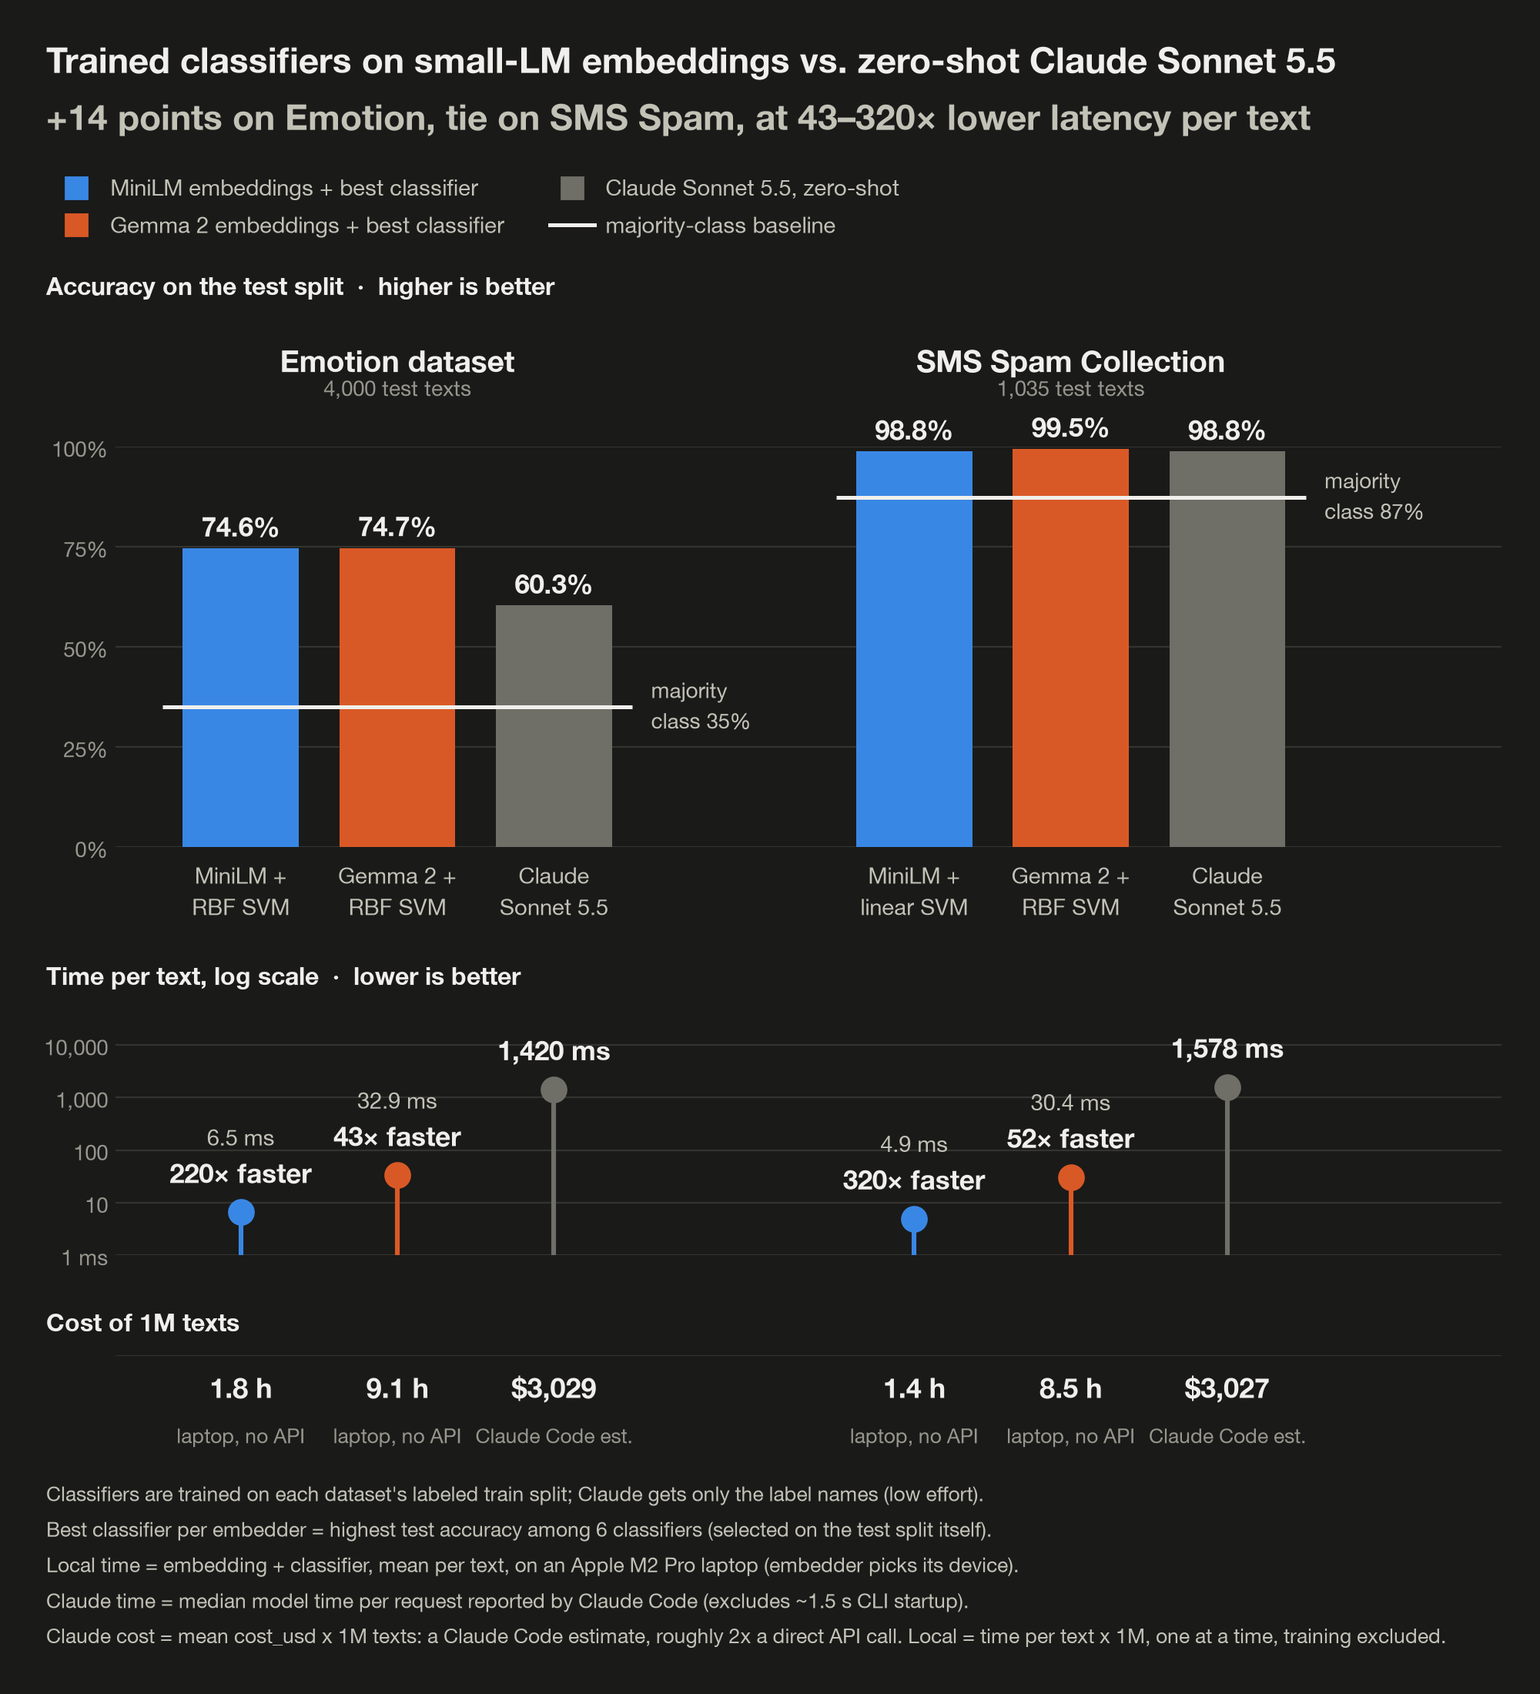
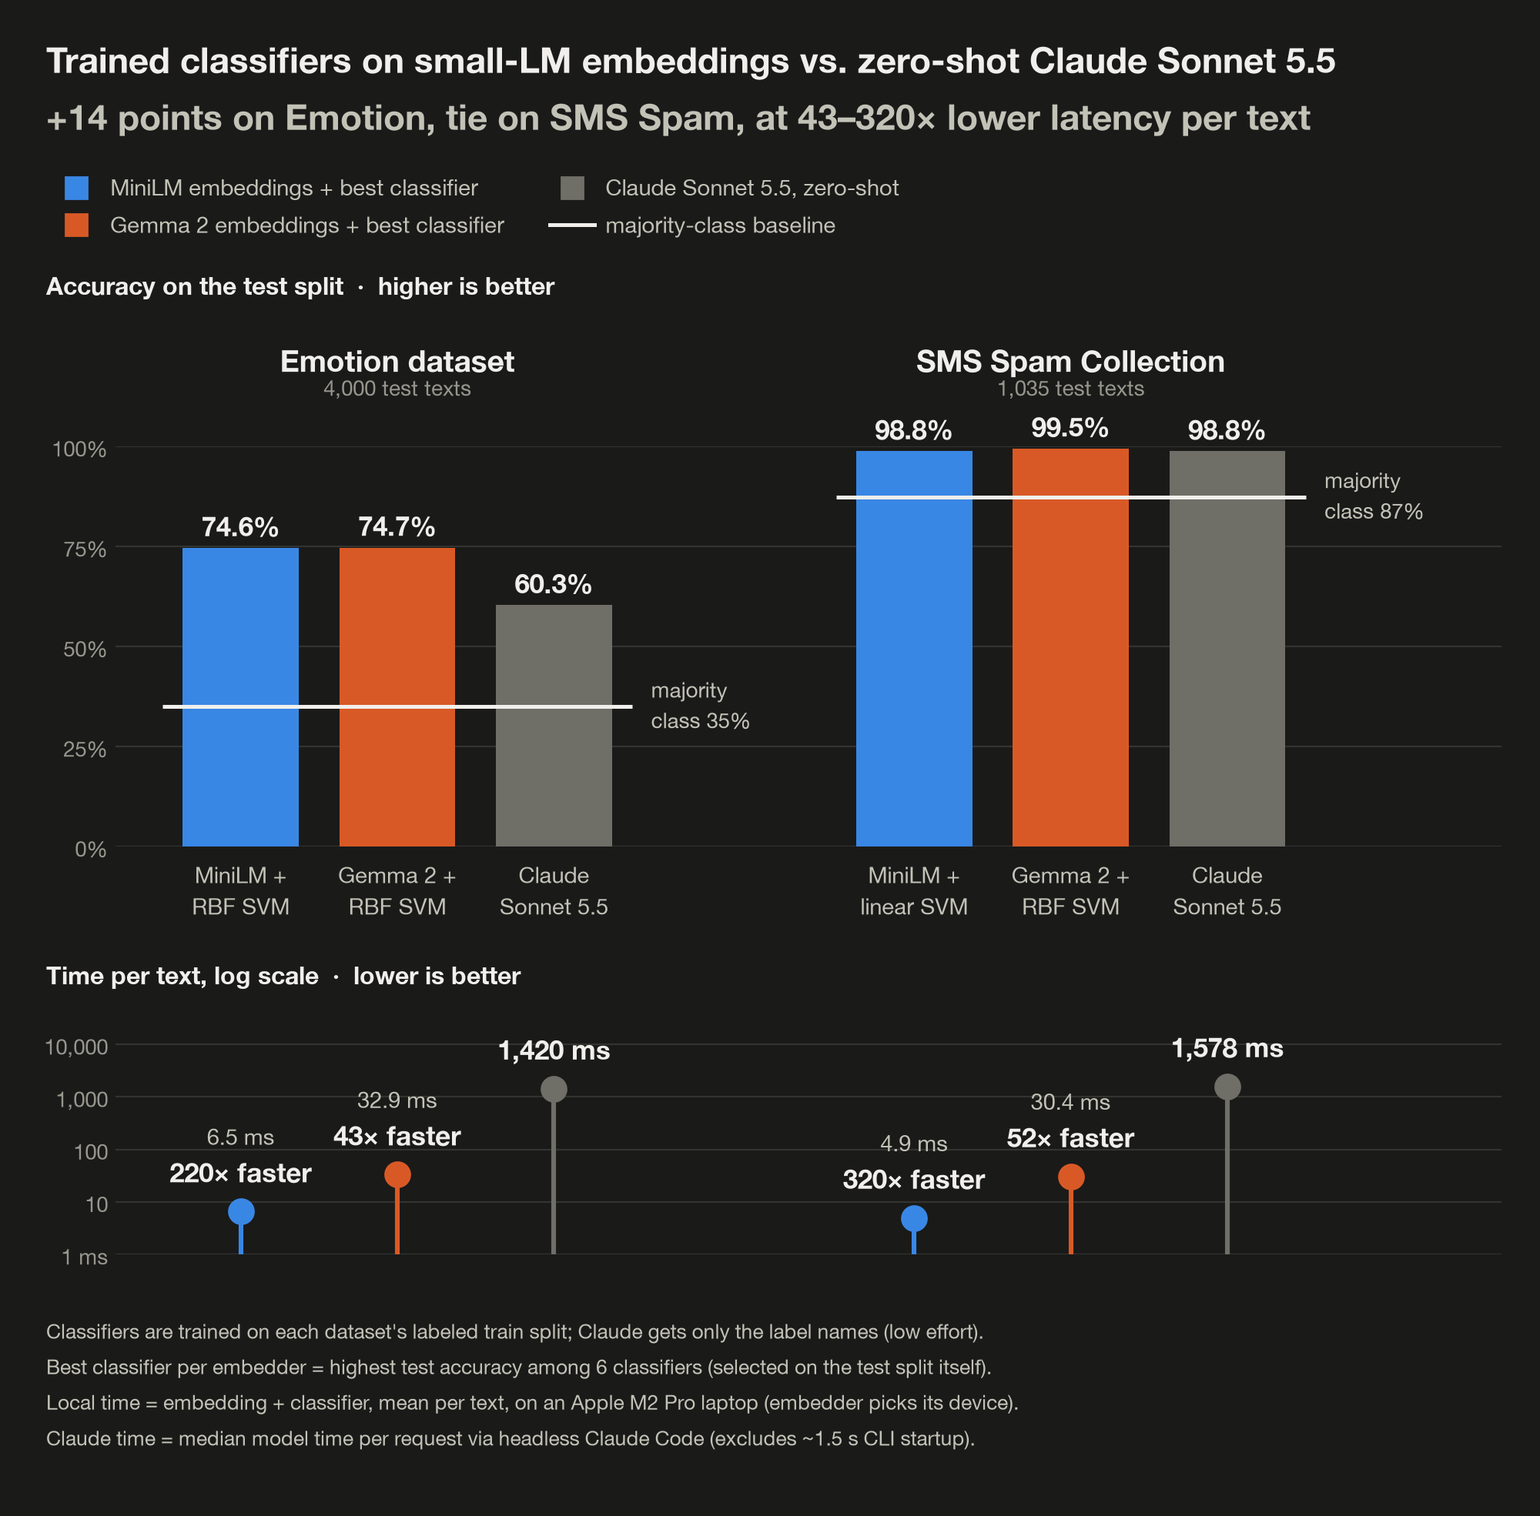
README and summary figure: drop notional Claude Code cost, add TODO notes, rename script references

diff --git a/results/plot_summary.py b/results/plot_summary.py
@@ -1,12 +1,12 @@
 """Headline figure: classical classifiers on small-LM embeddings vs. a zero-shot Claude baseline.
 
 Datasets are on the X axis. For each one the figure shows, top to bottom, accuracy of the
-best classifier per embedder next to Claude, per-text latency (log scale) with the speedup
-over Claude, and Claude's (notional) cost per 1M texts. Everything is discovered from the
+best classifier per embedder next to Claude, then per-text latency (log scale) with the
+speedup over Claude. Everything is discovered from the
 files present, so adding a dataset, embedder or Claude run needs no code change.
 
 Reads results/<dataset>_<embedder>.{csv,json} (experiment.py) and
-results/claude/<dataset>_<model>_claude-code_predictions.csv (experiment-claude.py).
+results/claude/<dataset>_<model>_claude-code_predictions.csv (experiment_claude.py).
 Claude numbers come only from the predictions file; a row with an empty prediction is
 unanswered and is excluded (the figure then marks the run as partial).
 
@@ -34,7 +34,6 @@ CLASSIFIER_FAMILIES = {"k-means", "logistic regression", "SVM", "gradient boosti
 EMBEDDER_ORDER = ["minilm", "gemma2"]  # fixed colour slots; unknown embedders follow, sorted
 EMBEDDER_NAMES = {"minilm": "MiniLM", "gemma2": "Gemma 2"}
 TIE = 0.01  # accuracy gap (absolute) below which the headline calls it a tie (about noise level here)
-CLAUDE_CODE_COST_FACTOR_NOTE = "roughly 2x a direct API call"
 
 # Light uses plot.py's palette. Dark steps come from the dataviz palette (same hues, dark surface).
 THEMES = {
@@ -51,7 +50,6 @@ class Bar:
     label: str  # two-line x tick label
     accuracy: float
     latency_ms: float
-    cost_per_1m: float | None  # None = no per-call cost
     partial: bool = False
 
 
@@ -93,7 +91,6 @@ def load_claude(dataset: str) -> tuple[str, dict] | None:
     return claude_name(files[0].name), dict(
         accuracy=float(correct.mean()),
         latency_ms=float(answered["latency_ms"].median()),
-        cost_per_1m=float(answered["cost_usd"].mean() * 1e6),
         n_answered=len(answered),
         n_total=len(preds),
     )
@@ -123,18 +120,17 @@ def load_groups() -> tuple[list[Group], list[str], str, int]:
             embed_ms = df.loc["embedding", "latency_ms_mean"]
             name = EMBEDDER_NAMES.get(emb, emb.title())
             bars.append(Bar(emb, f"{name} +\n{best}", float(clfs.loc[best, "accuracy"]),
-                            float(embed_ms + clfs.loc[best, "latency_ms_mean"]), None))
+                            float(embed_ms + clfs.loc[best, "latency_ms_mean"])))
             majority, title, n_test = float(df.loc["majority class", "accuracy"]), meta["dataset_title"], meta["n_test"]
         note = None
         claude = load_claude(dataset)
         if claude:
             cname, c = claude
             partial = c["n_answered"] < c["n_total"]
-            bars.append(Bar("claude", cname.replace("Claude ", "Claude\n"), c["accuracy"], c["latency_ms"],
-                            c["cost_per_1m"], partial))
+            bars.append(Bar("claude", cname.replace("Claude ", "Claude\n"), c["accuracy"], c["latency_ms"], partial))
             if partial:
                 note = (f"* Claude on {title}: {c['n_answered']:,} of {c['n_total']:,} test texts answered; "
-                        f"accuracy, latency and cost use the answered texts only.")
+                        f"accuracy and latency use the answered texts only.")
         groups.append(Group(title, n_test, majority, bars, note))
     return groups, embedders, cname, n_clf
 
@@ -175,7 +171,7 @@ def render(groups: list[Group], embedders: list[str], cname: str, n_clf: int, th
 
     plt.rcParams["font.family"] = ["Helvetica Neue", "Helvetica", "Arial", "DejaVu Sans"]
     plt.rcParams["hatch.linewidth"] = 1.2
-    W, H = 10.0, 11.0  # inches; vertical layout below is in inches from the top
+    W, H = 10.0, 9.85  # inches; vertical layout below is in inches from the top
     fig = plt.figure(figsize=(W, H), facecolor=t["surface"])
     left, right = 0.075, 0.975
     def rect(top: float, height: float) -> tuple[float, float, float, float]:
@@ -183,16 +179,14 @@ def render(groups: list[Group], embedders: list[str], cname: str, n_clf: int, th
 
     ax_acc = fig.add_axes(rect(2.9, 2.6))
     ax_lat = fig.add_axes(rect(6.65, 1.5), sharex=ax_acc)
-    ax_cost = fig.add_axes(rect(8.8, 0.55), sharex=ax_acc)
-    for ax in (ax_acc, ax_lat, ax_cost):
+    for ax in (ax_acc, ax_lat):
         ax.set_facecolor(t["surface"])
         ax.set_xlim(*xlim)
         for s in ax.spines.values():
             s.set_visible(False)
         ax.tick_params(length=0)
     for ax, title, dy in ((ax_acc, "Accuracy on the test split  ·  higher is better", 0.95),
-                          (ax_lat, "Time per text, log scale  ·  lower is better", 0.22),
-                          (ax_cost, "Cost of 1M texts", 0.12)):
+                          (ax_lat, "Time per text, log scale  ·  lower is better", 0.22)):
         pos = ax.get_position()
         fig.text(0.03, pos.y1 + dy / H, title, ha="left", va="bottom", fontsize=11.5, fontweight="bold", color=t["ink"])
 
@@ -253,23 +247,6 @@ def render(groups: list[Group], embedders: list[str], cname: str, n_clf: int, th
                 ax.annotate(fmt_ms(b.latency_ms), (x, b.latency_ms), xytext=(0, 29),
                             textcoords="offset points", ha="center", va="bottom", fontsize=10.5, color=t["ink2"])
 
-    # ---- cost (text only: the local pipeline has no per-call price to plot)
-    ax = ax_cost
-    ax.set_ylim(0, 1)
-    ax.set_yticks([])
-    plt.setp(ax.get_xticklabels(), visible=False)
-    for g, pos in zip(groups, xs):
-        for b, x in zip(g.bars, pos):
-            if b.cost_per_1m is not None:
-                ax.text(x, 0.62, f"${b.cost_per_1m:,.0f}" + ("*" if b.partial else ""), ha="center", va="center", fontsize=13,
-                        fontweight="bold", color=t["ink"])
-                ax.text(x, 0.05, "Claude Code est.", ha="center", va="center", fontsize=9.5, color=t["muted"])
-            else:  # no per-call price: show the laptop compute time for 1M texts, one at a time
-                ax.text(x, 0.62, f"{b.latency_ms * 1e6 / 3.6e6:.1f} h", ha="center", va="center", fontsize=13,
-                        fontweight="bold", color=t["ink"])
-                ax.text(x, 0.05, "laptop, no API", ha="center", va="center", fontsize=9.5, color=t["muted"])
-    ax.axhline(1, color=t["grid"], linewidth=0.8)
-
     # ---- title, legend, footnotes
     first, second = headline(groups, cname)
     fig.text(0.03, 1 - 0.25 / H, first, ha="left", va="top", fontsize=16.5, fontweight="bold", color=t["ink"])
@@ -285,10 +262,9 @@ def render(groups: list[Group], embedders: list[str], cname: str, n_clf: int, th
         "Classifiers are trained on each dataset's labeled train split; Claude gets only the label names (low effort).",
         f"Best classifier per embedder = highest test accuracy among {n_clf} classifiers (selected on the test split itself).",
         "Local time = embedding + classifier, mean per text, on an Apple M2 Pro laptop (embedder picks its device).",
-        f"Claude time = median model time per request reported by Claude Code (excludes ~1.5 s CLI startup).",
-        f"Claude cost = mean cost_usd x 1M texts: a Claude Code estimate, {CLAUDE_CODE_COST_FACTOR_NOTE}. Local = time per text x 1M, one at a time, training excluded.",
+        "Claude time = median model time per request via headless Claude Code (excludes ~1.5 s CLI startup).",
     ] + [g.claude_note for g in groups if g.claude_note]
-    fig.text(0.03, 1 - 9.6 / H, "\n".join(notes), ha="left", va="top", fontsize=9.5, color=t["ink2"], linespacing=1.5)
+    fig.text(0.03, 1 - 8.55 / H, "\n".join(notes), ha="left", va="top", fontsize=9.5, color=t["ink2"], linespacing=1.5)
     fig.savefig(path, dpi=200, facecolor=t["surface"])
     plt.close(fig)
 

diff --git a/README.md b/README.md
@@ -2,6 +2,12 @@
 
 Embed text with a small language model, then classify it with an SVM: as accurate as zero-shot Claude Sonnet 5.5, or more, at 43–320× lower latency per text and no per-call cost.
 
+<!-- TODO: add a three-bullet takeaway or a short "when to use this vs. an LLM API" guide here, above the figure.
+     e.g. stable labels + high volume + latency or privacy limits -> embeddings + classical classifier;
+     no labeled data, categories that change often, or low volume -> prompt an LLM. -->
+<!-- TODO: call the second embedder "EmbeddingGemma 2" (google/embeddinggemma-2) here, in the table and in the figure
+     labels (EMBEDDER_NAMES in results/plot_summary.py). "Gemma 2" reads as the Gemma 2 language model. -->
+
 <picture>
   <source media="(prefers-color-scheme: dark)" srcset="results/plots/summary-dark.png">
   <img alt="Accuracy, time per text and cost of 1M texts: small-LM embeddings plus a classical classifier vs. zero-shot Claude Sonnet 5.5 on the Emotion and SMS Spam datasets" src="results/plots/summary.png">
@@ -11,10 +17,26 @@ Embed text with a small language model, then classify it with an SVM: as accurat
 |---|---|---|
 | MiniLM + best classifier | 98.8% · **4.9 ms** / text | 74.6% · **6.5 ms** / text |
 | Gemma 2 + best classifier | **99.5%** · 30.4 ms / text | **74.7%** · 32.9 ms / text |
-| Claude Sonnet 5.5, zero-shot | 98.8% · 1,578 ms / text · ~$3,000 / 1M texts | 60.3% · 1,420 ms / text · ~$3,000 / 1M texts |
+| Claude Sonnet 5.5, zero-shot | 98.8% · 1,578 ms / text | 60.3% · 1,420 ms / text |
 | Always guess the most common label | 87.3% | 35.0% |
 
-<sub>Accuracy on the test split. Local times are embedding + classifier, one text at a time, mean over 100 test texts on an Apple M2 Pro laptop. Claude times are the median model time per request reported by Claude Code, and its cost is Claude Code's estimate. "Best classifier" is the most accurate of six, picked on the test split.</sub>
+<sub>Accuracy on the test split. Local times are embedding + classifier, one text at a time, mean over 100 test texts on an Apple M2 Pro laptop. Claude times are the median model time per request reported by Claude Code. "Best classifier" is the most accurate of six, picked on the test split.</sub>
+
+<!-- TODO: mention batch throughput. Embedding the whole test set in one batch takes about 0.3-0.4 ms per text
+     (predict_seconds / n_test on the "embedding" row of results/*_minilm.csv), about 10x faster than one text at a time. -->
+<!-- TODO: add a 5-line predict example (load embedder + trained classifier, classify one text, print label and ms),
+     or a small demo, so a visitor can try it. -->
+
+Through the API at list prices, the same zero-shot Claude Sonnet 5.5 call would cost at least about $200 per 1M texts (about $10 with Claude Haiku 5.5). The local pipeline has no per-call cost.
+
+<!-- Estimate: input tokens >= (system prompt + mean text length) / 4 characters per token (about 75-80 tokens), output >= 5
+     tokens (the JSON label), at $2 / $10 per 1M tokens for Sonnet 5.5 and $0.10 / $0.50 for Haiku 5.5. It leaves out the
+     structured-output schema and any thinking tokens, so it is a floor. Claude Code's own estimate (~$3,000 per 1M texts)
+     is about 10x higher because Claude Code adds ~1,100 tokens of its own prompt to every request. -->
+<!-- TODO: measure instead of estimate: run `uv run --env-file .env-secrets experiment_claude.py --backend api --limit 200`
+     on each dataset (real money, a few cents) to get API cost and latency. Claude Code's prompt also adds latency,
+     so a direct API call may be faster than the 1.4-1.6 s measured here, which would shrink the speedup. -->
+<!-- TODO: add a few-shot and/or Claude Haiku 5.5 row, so the LLM baseline isn't only zero-shot Sonnet at low effort. -->
 
 ## Why this repo exists
 
@@ -26,15 +48,25 @@ Embed text with a small language model, then classify it with an SVM: as accurat
 
 **What we found.** On SMS Spam, the MiniLM pipeline ties Claude at 98.8% accuracy, and Gemma 2 with an RBF SVM edges past it at 99.5%. That dataset is close to solved, though (guessing "not spam" every time already scores 87%), so gaps this small are probably noise. Emotion is the harder test, and there the classical pipeline wins clearly: 74.6% for MiniLM against 60.3% for Claude, whose macro-F1 is 0.55. Even plain logistic regression on MiniLM embeddings (69.0%) beats it. Almost all of the local inference time goes to the encoder, at about 5 ms per text for MiniLM and 30 ms for Gemma 2. The classifier adds 0.01–0.3 ms, apart from the RBF SVM (up to 2.6 ms on Emotion).
 
-**Limitations.** The classifiers learn from each dataset's labeled training split, while Claude sees only the label names, so this compares a trained pipeline with an untrained one. The LLM baseline is one model with a short zero-shot prompt and low effort. Few-shot examples or more effort might close the Emotion gap. Claude's latency includes the network round trip, and its cost is Claude Code's estimate rather than an API bill. Other gaps: two embedders, one train/test split with no confidence intervals, the best classifier picked on the test split, default hyperparameters, and no measurements on a phone or other edge device.
+<!-- TODO: check whether the Emotion labels come from hashtags (distant supervision in Saravia et al., EMNLP 2018).
+     If so, say that zero-shot Claude is partly penalized for the labeling convention, not only for understanding less. -->
+
+**Limitations.** The classifiers learn from each dataset's labeled training split, while Claude sees only the label names, so this compares a trained pipeline with an untrained one. The LLM baseline is one model with a short zero-shot prompt and low effort. Few-shot examples or more effort might close the Emotion gap. Claude's latency includes the network round trip and Claude Code's overhead. Other gaps: two embedders, one train/test split with no confidence intervals, the best classifier picked on the test split, default hyperparameters, and no measurements on a phone or other edge device.
+
+<!-- TODO: learning curve. Train each classifier on 10, 25, 50, 100, 250, 500, 1k, ... labeled examples per dataset and
+     plot accuracy against training-set size, with zero-shot Claude as a horizontal line. The point where the curve
+     crosses Claude is "how many labels you need to beat an LLM", which answers the trained vs. zero-shot objection
+     head on. Runs locally, no API cost. -->
+<!-- TODO: once TODO.md's model-selection item is done, replace "picked on the test split" and "no confidence intervals"
+     above with the new protocol. -->
 
 ## Running it
 
     uv run experiment.py                     # SMS Spam, every embedder
     uv run experiment.py --dataset emotion
-    uv run experiment-claude.py --dataset emotion   # Claude baseline (asks before sending requests)
+    uv run experiment_claude.py --dataset emotion   # Claude baseline (asks before sending requests)
 
-Each `experiment.py` run goes through every embedder in `EMBEDDERS` and writes `results/<dataset>_<embedder>.csv` and `results/<dataset>_<embedder>.json` for each. `experiment-claude.py` writes to `results/claude/`. Then:
+Each `experiment.py` run goes through every embedder in `EMBEDDERS` and writes `results/<dataset>_<embedder>.csv` and `results/<dataset>_<embedder>.json` for each. `experiment_claude.py` writes to `results/claude/`. Then:
 
     uv run results/plot_summary.py   # headline figure: results/plots/summary.png
     uv run results/plot.py           # per-run plots: results/plots/<dataset>_<embedder>.png
@@ -49,3 +81,6 @@ pass it per command or set it once for your shell:
 
     uv run --env-file .env-macos experiment.py
     export UV_ENV_FILE=.env-macos
+
+<!-- TODO: author section: your name, links (site, LinkedIn, Google Scholar), one line on how this connects to your
+     research, and a "what I'd extend next" line (e.g. on-device benchmark, more datasets, fine-tuned small transformer). -->

diff --git a/TODO.md b/TODO.md
@@ -4,3 +4,11 @@
 - [x] Make experiments more modular: `experiment.py` should only write a results file, and plotting should be a separate script that reads results files.
 - [ ] Move experiment settings (datasets, embedders, classifiers and their hyperparameters, latency sample size) out of `experiment.py` into a config file.
 - [ ] Add a local LLM classifier (prompting a local model for the label) as a baseline, to measure the speedup of embedding + SVM over LLM inference.
+- [ ] Model selection without the test set, plus uncertainty on every comparison.
+  - **Problem.** The headline figure and the README table report the "best classifier" per embedder, chosen as the most accurate of six classifiers *on the test split*. This is selection on the test set, so the best-of-six numbers are optimistically biased. Each run is also one train/test split with no error bars. That makes small gaps impossible to read: 99.5% vs. 98.8% on SMS Spam is 7 of 1,035 texts, and 74.6% vs. 74.7% on Emotion is 4 of 4,000. A reviewer or interviewer will ask about both.
+  - **Selection.** Choose the classifier (and any hyperparameters) on the training data only. Either hold out a validation split from `train.parquet` (e.g. 15%, stratified, fixed seed) or use stratified k-fold cross-validation on train (k=5). Then refit the chosen classifier on all of train and score it once on test. Record which classifier was chosen and its validation score in the results JSON, so `results/plot_summary.py` can read the choice instead of taking `idxmax` over test accuracy. Optionally tune a small grid per classifier at the same time (`C` for the SVMs and logistic regression, `gamma` for the RBF SVM, depth and estimators for XGBoost), since everything currently runs on defaults.
+  - **Confidence intervals.** For each reported accuracy and macro-F1, compute a 95% bootstrap interval over the test texts (resample test indices with replacement, e.g. 1,000-10,000 times, take the 2.5th and 97.5th percentiles). That needs per-text predictions, so have `experiment.py` save them, e.g. `results/<dataset>_<embedder>_predictions.csv` with `text`, `label` and one column per classifier. Show the intervals as error bars in the figure and as ± in the table.
+  - **Paired comparison with Claude.** Claude's per-text predictions are already in `results/claude/*_predictions.csv`, on the same test texts. Once the classifiers' predictions are saved too, run McNemar's test (or a paired bootstrap of the accuracy difference) between the chosen classifier and Claude on each dataset. Report the p-value or the interval of the difference. This is the honest way to back "+14 points on Emotion" and "tie on SMS Spam".
+  - **Repeats.** If time allows, repeat over a few seeds or splits (e.g. 5) and report mean ± std. This matters most for SMS Spam, where the test set is small and near-saturated.
+  - **Done when.** The figure and table use the chosen classifier with error bars, the README states the selection protocol, and the "picked on the test split" and "no confidence intervals" caveats come out of the README's Limitations paragraph.
+- [ ] Add CI (e.g. a GitHub Actions workflow) that runs `uv run pytest` on every push and PR, and a badge in the README.
